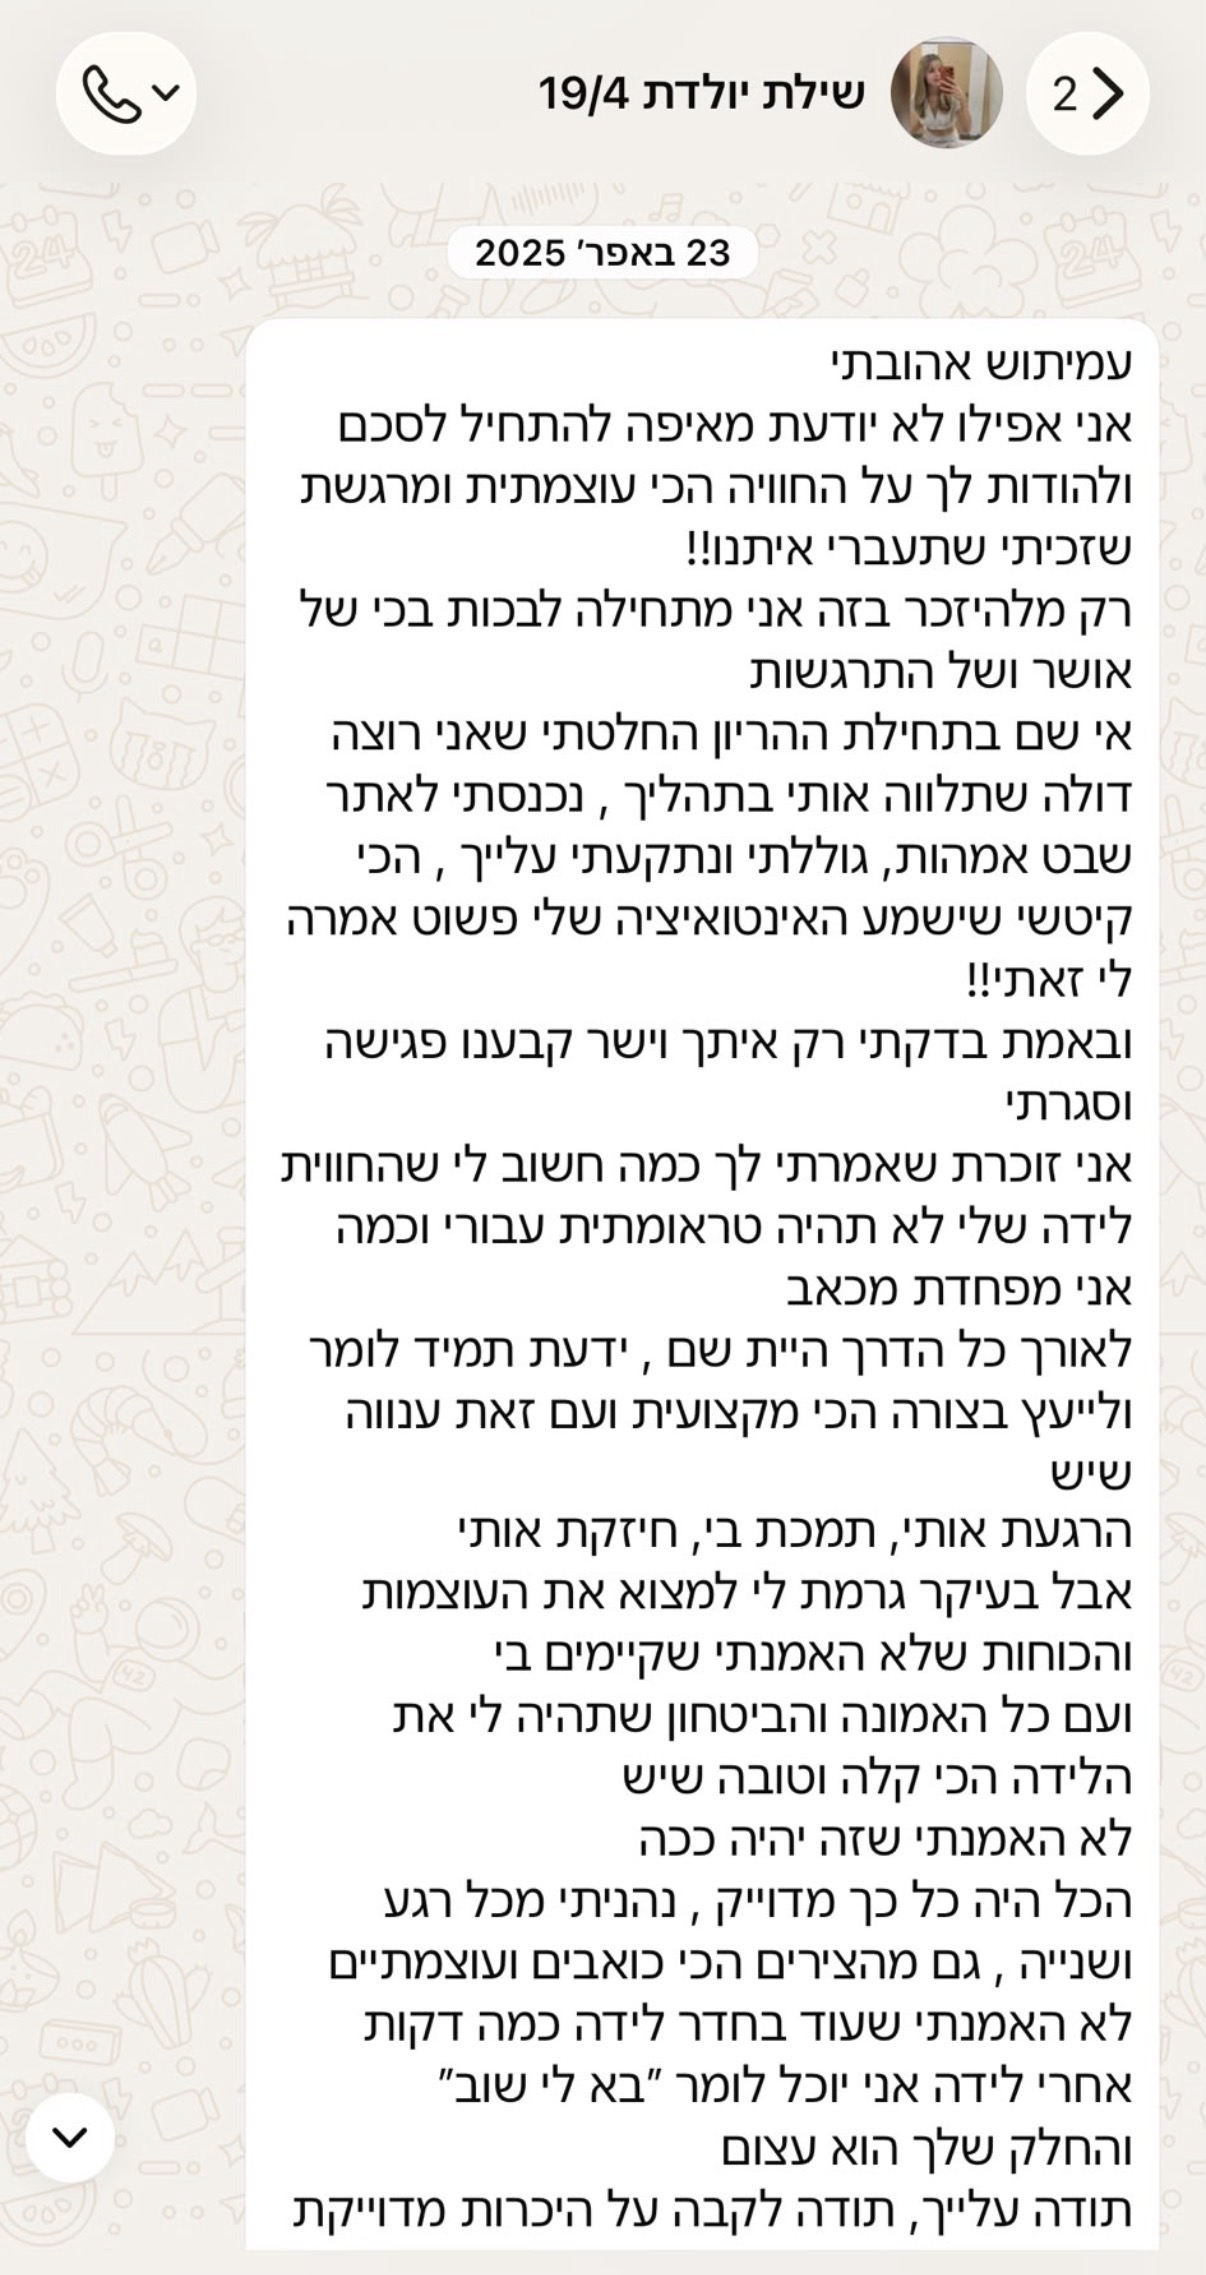
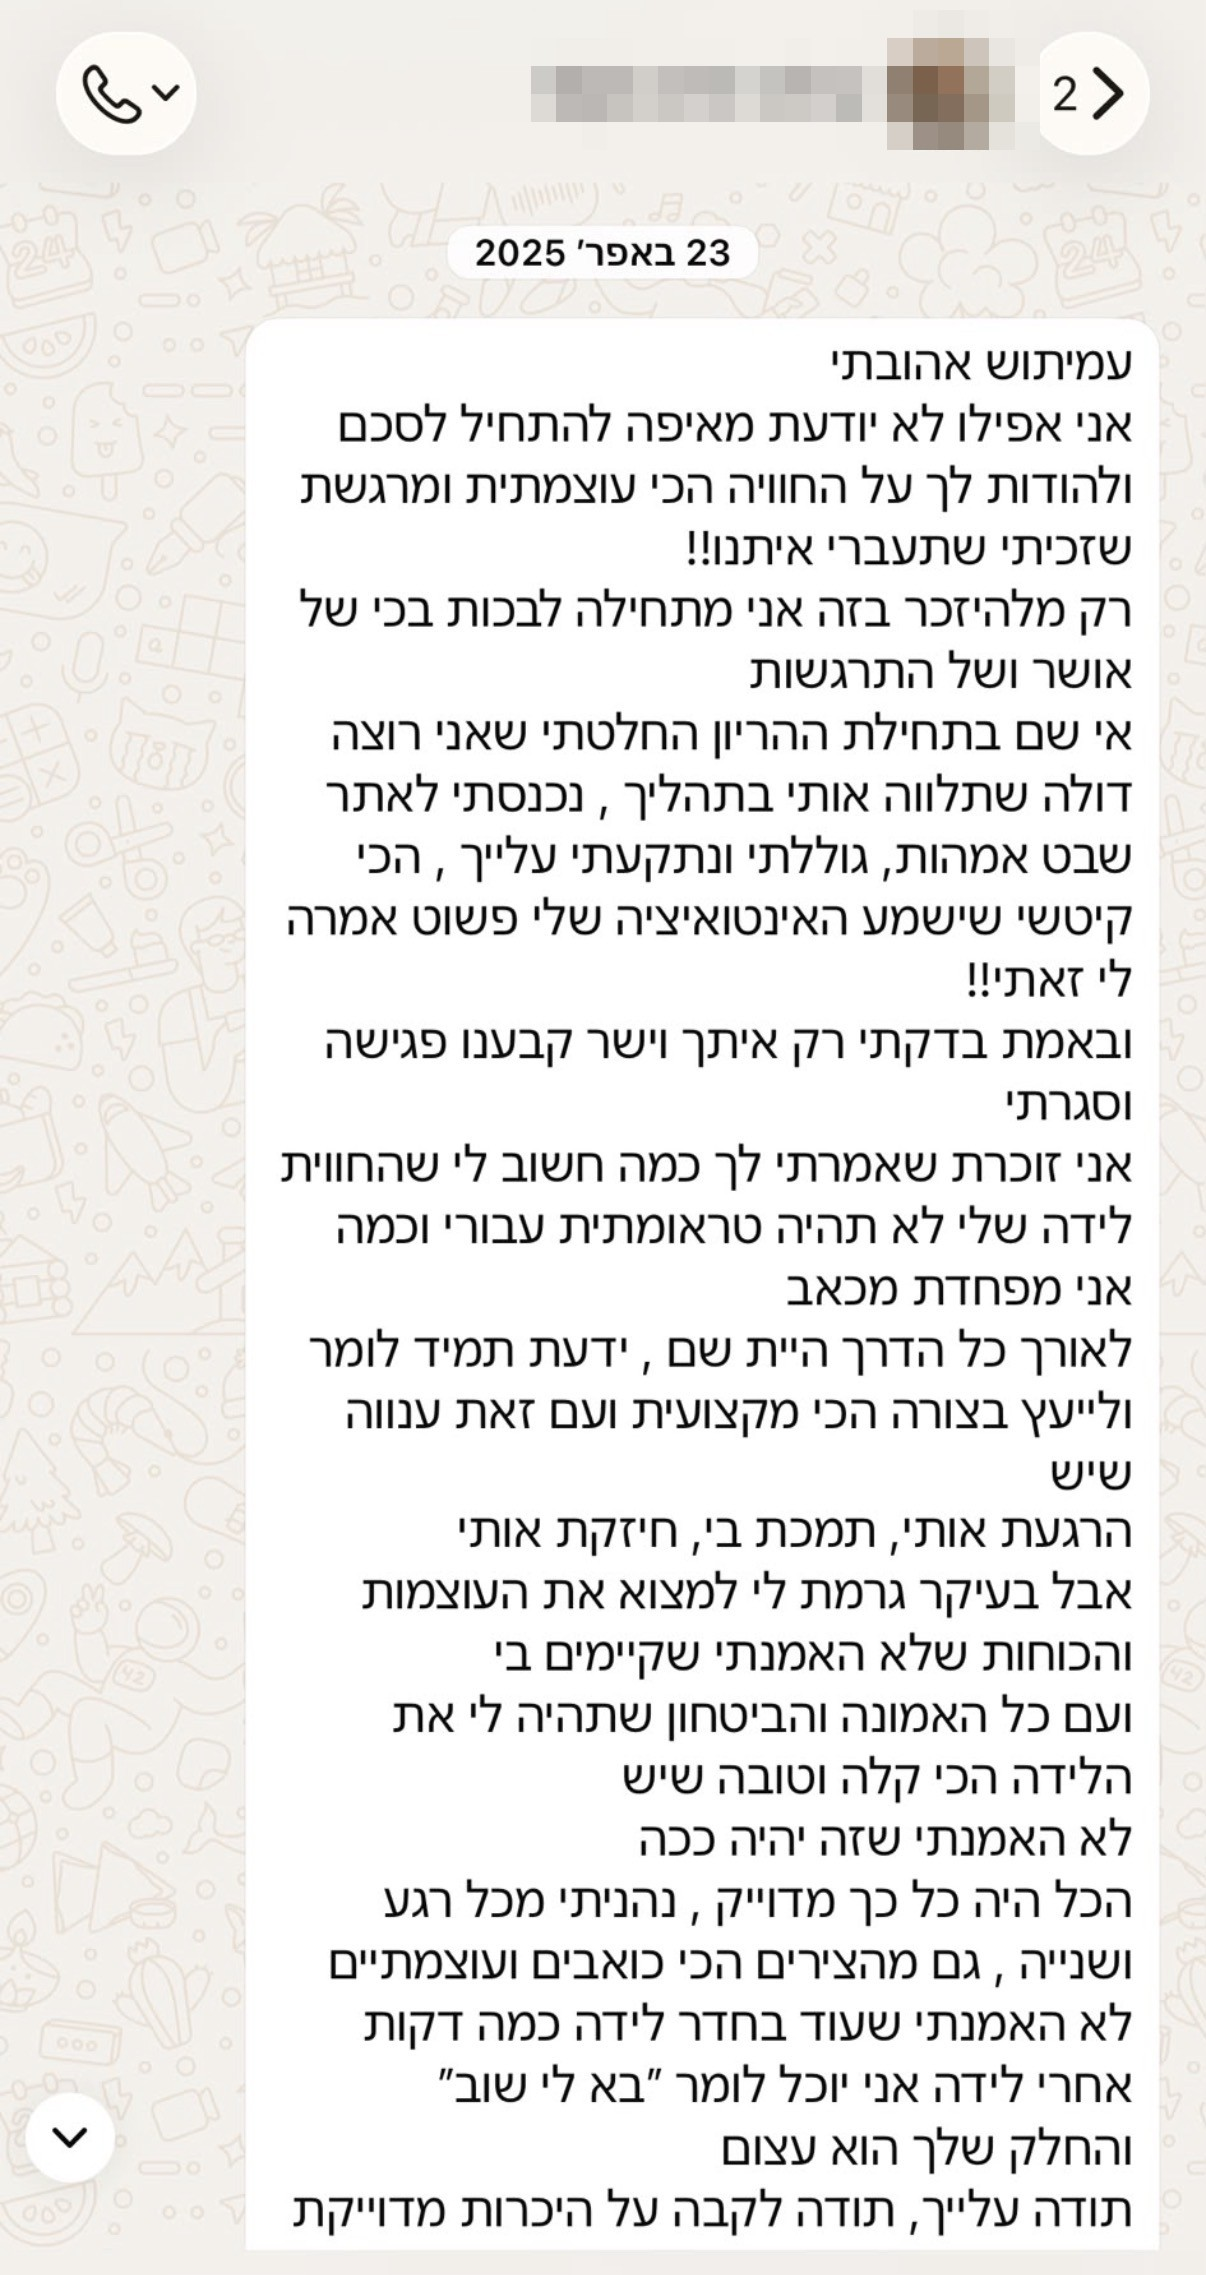
עדכוני תוכן בעמוד הדולה וההנקה, צנזור שמות לקוחות בתמונות ההמלצות, והוספת כפתור אינסטגרם צף

Changed region(s): [[0.4295, 0.0, 0.859, 0.0936]]

diff --git a/css/style.css b/css/style.css
@@ -248,6 +248,26 @@ button:focus-visible,
   transform: scale(1.08);
   box-shadow: 0 6px 18px rgba(0, 0, 0, 0.3);
 }
+.instagram-float {
+  position: fixed;
+  bottom: 86px;
+  inset-inline-end: 20px;
+  z-index: 200;
+  width: 56px;
+  height: 56px;
+  border-radius: 50%;
+  background: linear-gradient(45deg, #f9ce34, #ee2a7b, #6228d7);
+  color: #fff;
+  display: flex;
+  align-items: center;
+  justify-content: center;
+  box-shadow: 0 4px 14px rgba(0, 0, 0, 0.25);
+  transition: transform 0.2s ease, box-shadow 0.2s ease;
+}
+.instagram-float:hover {
+  transform: scale(1.08);
+  box-shadow: 0 6px 18px rgba(0, 0, 0, 0.3);
+}
 
 /* ==========================================================================
    הדר / ניווט
